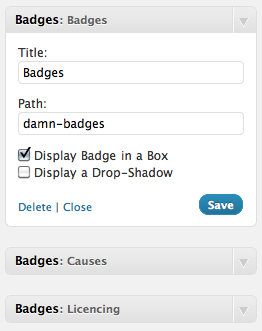
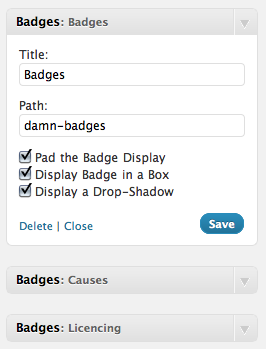
Updated to use '<div>' sections instead of lists
git-svn-id: https://plugins.svn.wordpress.org/badges/trunk@343484 b8457f37-d9ea-0310-8a92-e5e31aec5664

diff --git a/DisplayBadges.php b/DisplayBadges.php
@@ -4,7 +4,7 @@
     Plugin URI: http://www.damn.org.za/blog/DisplayBadges
     Description: Display a set of Badges (named XXFoo.inc) within the widget
     Author: Eugéne Roux
-    Version: 2
+    Version: 2.2
     Author URI: http://damn.org.za/
  */
 
@@ -21,6 +21,7 @@ class DisplayBadges extends WP_Widget {
         $this->widget_defaults = array(
             'internalcss' => true,
             'dropshadow' => false,
+            'displayframe' => true,
             'path' => 'badges',
         );
 
@@ -33,8 +34,9 @@ class DisplayBadges extends WP_Widget {
         extract( $args );
         $title = apply_filters('widget_title', $instance['title']);
         $badgedir = $instance['path'];
-        $internalcss = $instance["internalcss"] ? true : false;
         $dropshadow = $instance["dropshadow"] ? true : false;
+        $internalcss = $instance["internalcss"] ? true : false;
+        $displayframe = $instance["displayframe"] ? true : false;
 
         if (is_dir( "./" . $badgedir )) {
 
@@ -43,17 +45,21 @@ class DisplayBadges extends WP_Widget {
             if ( $title )
                 echo $before_title . $title . $after_title; // This way we get to choose a "No Title" scenario...
 
+            print( "\n\t<div class='badge' id='badge-" . $badgedir . "'>\n" );
+
             foreach (glob( "./" . $badgedir . "/[0-9][0-9]*.inc") as $filename) {
                 $fileid = preg_replace("/\.\/[\w-_]+\/\d+(.+)\.inc/", "\$1", $filename); // Extract the base name... and mind the leading ./
 
-                print("\t<li class=\"badge\">\n");
-                print( "\t\t<ul " );
-                if ( $internalcss || $dropshadow  ) {
+                print( "\n\t\t<div \n" );
+
+                if ( $internalcss || $displayframe || $dropshadow  ) {
                     print( "style='" );
                     if ( $internalcss ) {
-                        print( "list-style: none; display: block; text-align: center; border: 1px solid; " );
+                        print( "display: block; text-align: center; width: auto; margin: 1em; padding: 2ex; " );
+                    }
+                    if ( $displayframe ) {
+                        print( "border: 1px solid; " );
                         print( "-moz-border-radius: 1em; -webkit-border-radius: 1em; -khtml-border-radius: 1em; border-radius: 1em; " );
-                        print( "width: auto; margin: 1em; padding: 2ex; " );
                     }
                     if ( $dropshadow ) {
                         print( "-moz-box-shadow: #CCC 5px 5px 5px; -webkit-box-shadow: #CCC 5px 5px 5px; ");
@@ -61,7 +67,8 @@ class DisplayBadges extends WP_Widget {
                     }
                     print( "' " );
                 }
-                print( "id='badge-$fileid'>\n\t\t\t<li>\n" );
+
+                print( "class='badge' id='badge-" . $badgedir . "-" . $fileid . "'>\n" );
 
                 $badgearray = file($filename); 
                 foreach ($badgearray as $badge) {
@@ -69,9 +76,10 @@ class DisplayBadges extends WP_Widget {
                     print("$badge");
                 }
 
-                print("\t\t\t</li>\n\t\t</ul> <!-- #badge-$fileid -->\n\t</li>\n");
+                print( "\t\t</div>\n" );
             }
 
+            print( "\t</div><!-- #badge-" . $badgedir . " -->\n" );
             echo $after_widget;
         }
     }
@@ -83,6 +91,7 @@ class DisplayBadges extends WP_Widget {
         $instance = $old_instance;
         $instance['title'] = strip_tags( $new_instance['title'] );
         $instance['path'] = $new_instance['path'];
+        $instance['displayframe'] = ( isset( $new_instance['displayframe'] ) ? 1 : 0 );
         $instance['internalcss'] = ( isset( $new_instance['internalcss'] ) ? 1 : 0 );
         $instance['dropshadow'] = ( isset( $new_instance['dropshadow'] ) ? 1 : 0 );
         return $instance;
@@ -97,6 +106,7 @@ class DisplayBadges extends WP_Widget {
 
         $title = esc_attr( $instance['title'] );
         $path = $instance['path'];
+        $displayframe = $instance['displayframe'] ? "checked='checked'" : "";        
         $internalcss = $instance['internalcss'] ? "checked='checked'" : "";        
         $dropshadow = $instance['dropshadow'] ? "checked='checked'" : "";        
 
@@ -109,7 +119,12 @@ class DisplayBadges extends WP_Widget {
         print( "\t<p>\n" );
         print( "\t\t<input class='checkbox' type='checkbox' " . $internalcss );
         print( " id='" . $this->get_field_id("internalcss") . "' name='" . $this->get_field_name("internalcss") . "'/>\n" );
-        print( "\t\t<label for='" . $this->get_field_id("internalcss") . "'>" ); _e( "Display Badge in a Box" );
+        print( "\t\t<label for='" . $this->get_field_id("internalcss") . "'>" ); _e( "Pad the Badge Display" );
+        print( "</label>\n" );
+        print( "\t\t<br />\n" );
+        print( "\t\t<input class='checkbox' type='checkbox' " . $displayframe );
+        print( " id='" . $this->get_field_id("displayframe") . "' name='" . $this->get_field_name("displayframe") . "'/>\n" );
+        print( "\t\t<label for='" . $this->get_field_id("displayframe") . "'>" ); _e( "Display Badge in a Box" );
         print( "</label>\n" );
         print( "\t\t<br />\n" );
         print( "\t\t<input class='checkbox' type='checkbox' " . $dropshadow );
